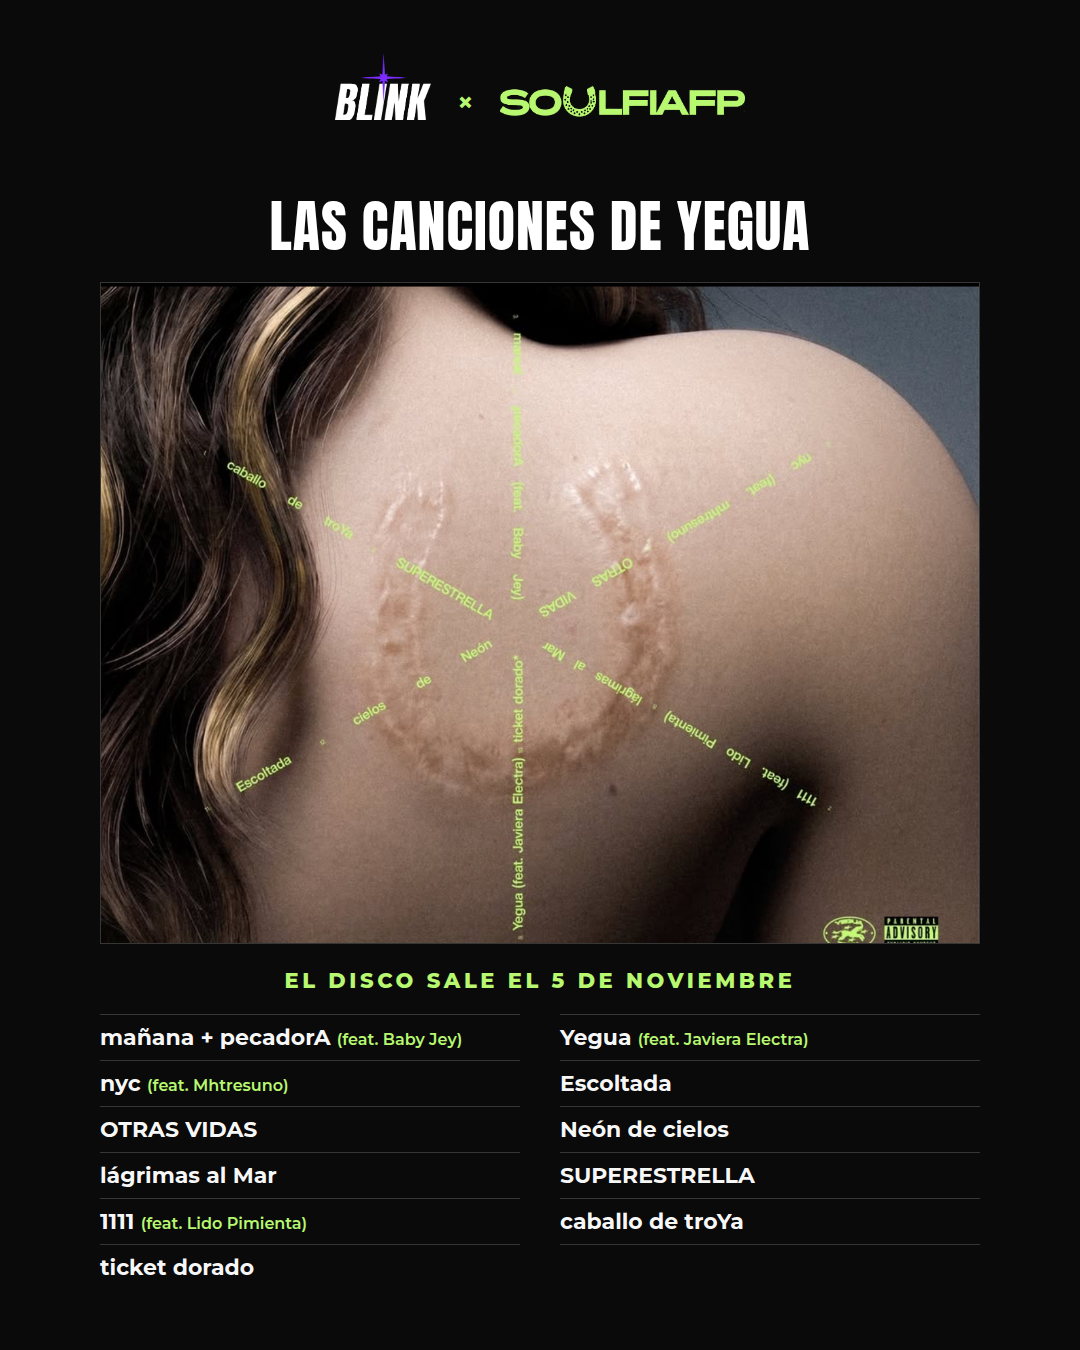
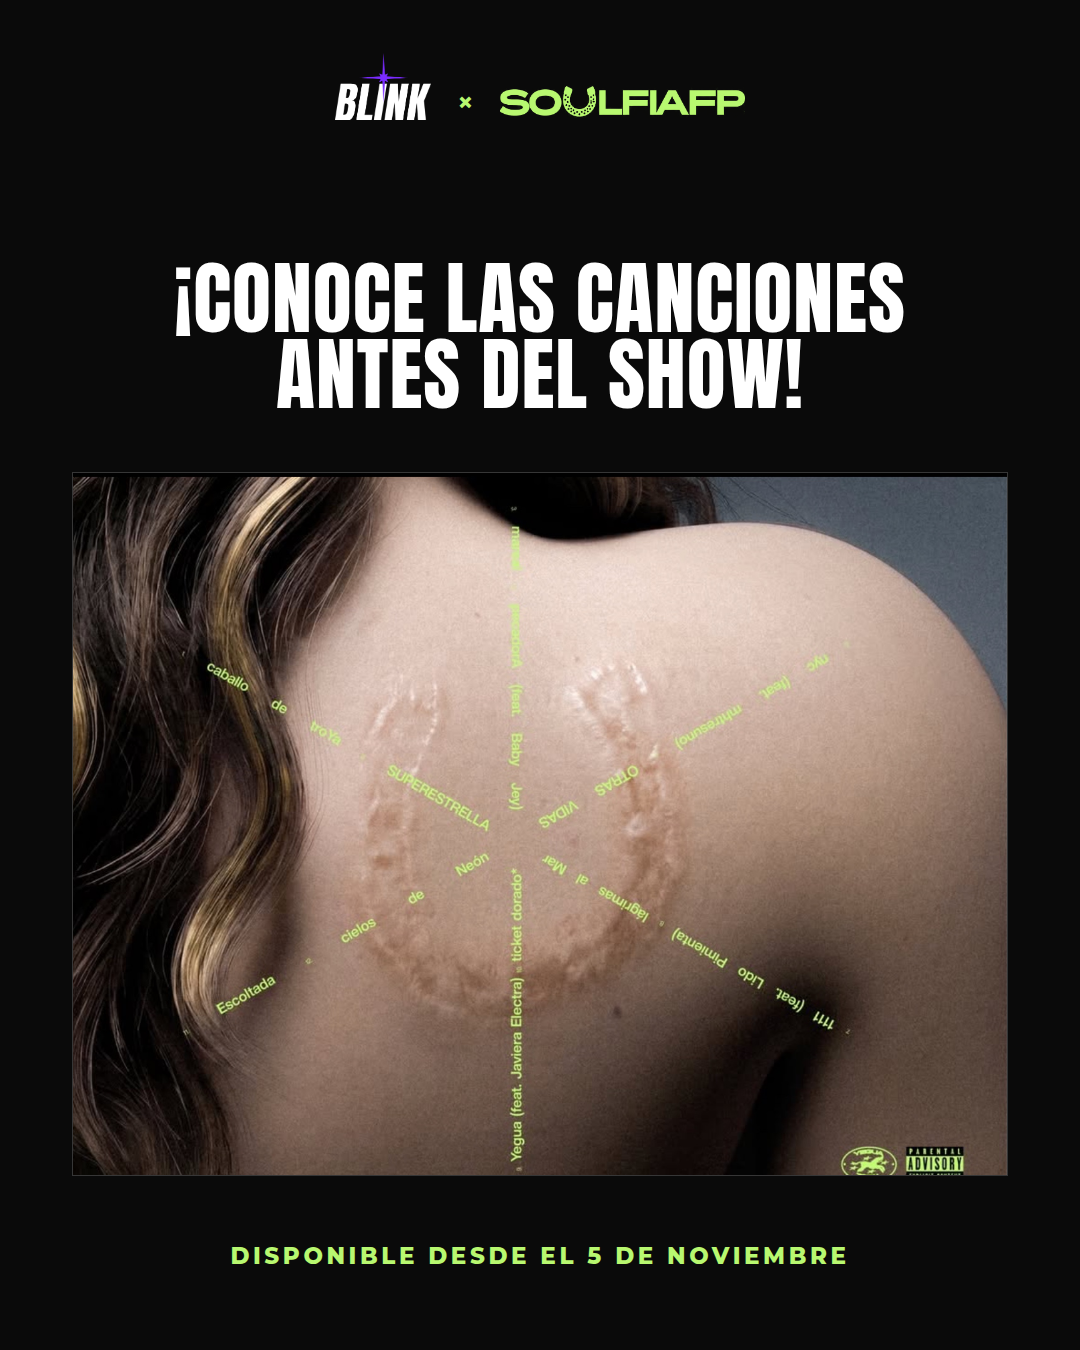
Lámina 2: fuera la lista transcrita, queda su gráfica sola
Mia prefirió no transcribir los títulos porque los nombres no están
confirmados, así que la lámina deja de competir con la imagen: titular
"¡Conoce las canciones antes del show!", su gráfica enmarcada más grande
(936x704, antes 880x662) y abajo "Disponible desde el 5 de noviembre".

Claude-Session: https://claude.ai/code/session_01NF4PN4Z1tGA2GQg6PseM5W

diff --git a/concurso-soulfia-canciones.html b/concurso-soulfia-canciones.html
@@ -10,7 +10,7 @@
     --blanco: #FFFFFF;
     /* El lima lo saqué del logo de @soulfiafp: rgb(184,248,112). Es el mismo
        verde con el que ella escribió los títulos sobre la espalda, así que la
-       lámina y la portada del disco hablan el mismo idioma sin forzarlo. */
+       lámina y la gráfica del disco hablan el mismo idioma sin forzarlo. */
     --lima:   #B8F870;
     --linea:  rgba(255,255,255,.18);
   }
@@ -41,57 +41,37 @@
 
   /* ---------------------------------------------- ZONA 2 · el titular */
   .titulo{
-    position:absolute; z-index:3; left:72px; right:72px; top:198px;
+    position:absolute; z-index:3; left:72px; right:72px; top:260px;
     text-align:center;
     font-family:"Anton", sans-serif;
-    font-size:56px; line-height:1; letter-spacing:1px;
+    font-size:80px; line-height:.95; letter-spacing:1px;
     color:var(--blanco); text-transform:uppercase;
   }
+  .titulo span{ display:block; }
 
-  /* --------------------------------------- ZONA 3 · su imagen, enmarcada */
+  /* --------------------------------------- ZONA 3 · su gráfica, enmarcada */
   /* La imagen que ella publicó es horizontal (1570x1182) y además es una
      captura de Instagram: trae la flecha de la izquierda y los dos puntitos
      del carrusel abajo al centro. Primero la probé de fondo a sangre y no
      sirve: los títulos en lima que ella escribió sobre la espalda se
      transparentan detrás del texto mío y se lee todo duplicado. Enmarcada
-     funciona, porque pasa a ser lo que es —la gráfica del disco— y la lista
-     de abajo es la que informa. El recorte empieza en x=75 y termina en
-     y=1124 para que la flecha y los puntitos queden fuera. */
+     funciona, porque pasa a ser lo que es: la gráfica del disco. El recorte
+     empieza en x=75 y termina en y=1125 para que la flecha y los puntitos
+     queden fuera. */
   .panel{
-    position:absolute; z-index:3; left:100px; top:282px;
-    width:880px; height:662px;
+    position:absolute; z-index:3; left:72px; top:472px;
+    width:936px; height:704px;
     overflow:hidden;
     border:1.5px solid var(--linea);
   }
-  .panel img{ position:absolute; top:0; left:-44px; width:924px; }
+  .panel img{ position:absolute; top:0; left:-47px; width:983px; }
 
+  /* ------------------------------------------------- ZONA 4 · la fecha */
   .fecha{
-    position:absolute; z-index:3; left:72px; right:72px; top:968px;
+    position:absolute; z-index:3; left:72px; right:72px; top:1242px;
     text-align:center;
-    font-weight:800; font-size:21px; letter-spacing:3.6px;
+    font-weight:800; font-size:23px; letter-spacing:3.6px;
     color:var(--lima); text-transform:uppercase;
-  }
-
-  /* ---------------------------------------- ZONA 4 · las once canciones */
-  /* Dos columnas en vez de una lista de once líneas: en una sola columna el
-     interlineado hay que apretarlo tanto que el bloque se lee como párrafo.
-     Cada fila lleva una línea fina arriba, la misma que enmarca el panel, así
-     que la tabla no necesita ningún recuadro propio. */
-  .lista{
-    position:absolute; z-index:3; left:100px; right:100px; top:1014px;
-    display:flex; gap:40px;
-  }
-  .col{ flex:1; }
-  .fila{
-    height:46px; display:flex; align-items:center;
-    border-top:1.5px solid var(--linea);
-  }
-  .tema{
-    font-weight:700; font-size:22px; line-height:1.15;
-    color:rgba(255,255,255,.97); white-space:nowrap;
-  }
-  .tema i{
-    font-style:normal; font-weight:600; font-size:16px; color:var(--lima);
   }
 </style>
 </head>
@@ -104,55 +84,30 @@
     <img class="fp" src="logo-soulfiafp.png" alt="SOULFIAFP">
   </div>
 
-  <div class="titulo">Las canciones de Yegua</div>
+  <div class="titulo"><span>¡Conoce las canciones</span><span>antes del show!</span></div>
 
   <div class="panel">
     <img src="soulfia-tracklist.jpg" alt="">
   </div>
 
-  <div class="fecha">El disco sale el 5 de noviembre</div>
-
-  <div class="lista">
-    <div class="col">
-      <div class="fila"><span class="tema">mañana + pecadorA <i>(feat. Baby Jey)</i></span></div>
-      <div class="fila"><span class="tema">nyc <i>(feat. Mhtresuno)</i></span></div>
-      <div class="fila"><span class="tema">OTRAS VIDAS</span></div>
-      <div class="fila"><span class="tema">lágrimas al Mar</span></div>
-      <div class="fila"><span class="tema">1111 <i>(feat. Lido Pimienta)</i></span></div>
-      <div class="fila"><span class="tema">ticket dorado</span></div>
-    </div>
-    <div class="col">
-      <div class="fila"><span class="tema">Yegua <i>(feat. Javiera Electra)</i></span></div>
-      <div class="fila"><span class="tema">Escoltada</span></div>
-      <div class="fila"><span class="tema">Neón de cielos</span></div>
-      <div class="fila"><span class="tema">SUPERESTRELLA</span></div>
-      <div class="fila"><span class="tema">caballo de troYa</span></div>
-      <div class="fila"></div>
-    </div>
-  </div>
+  <div class="fecha">Disponible desde el 5 de noviembre</div>
 
 </div>
 
 <script>
 (async function(){
-  await document.fonts.load("56px Anton");
-  await document.fonts.load("800 21px Montserrat");
-  await document.fonts.load("700 22px Montserrat");
+  await document.fonts.load("80px Anton");
+  await document.fonts.load("800 23px Montserrat");
   await document.fonts.ready;
 
-  // Ningún título puede irse a dos líneas: la fila mide 46px fijos para que
-  // las líneas finas de las dos columnas queden a la misma altura. Si uno se
-  // pasa de ancho, se achica solo ese.
-  document.querySelectorAll(".fila").forEach(f => {
-    const s = f.querySelector(".tema");
-    if (!s) return;
-    let c = 22;
-    while (c > 15 && s.scrollWidth > f.clientWidth){
-      c -= 0.5;
-      s.style.fontSize = c + "px";
-      s.querySelectorAll("i").forEach(i => { i.style.fontSize = (c - 6) + "px"; });
-    }
-  });
+  // Las dos líneas del titular comparten cuerpo, igual que en la lámina del
+  // concurso: ajustándolas por separado se nota el escalón.
+  const lineas = [...document.querySelectorAll(".titulo span")];
+  let t = 80;
+  while (t > 56 && lineas.some(l => l.scrollWidth > 936)){
+    t -= 2;
+    lineas.forEach(l => { l.style.fontSize = t + "px"; });
+  }
 
   document.title = "listo";
 })();
